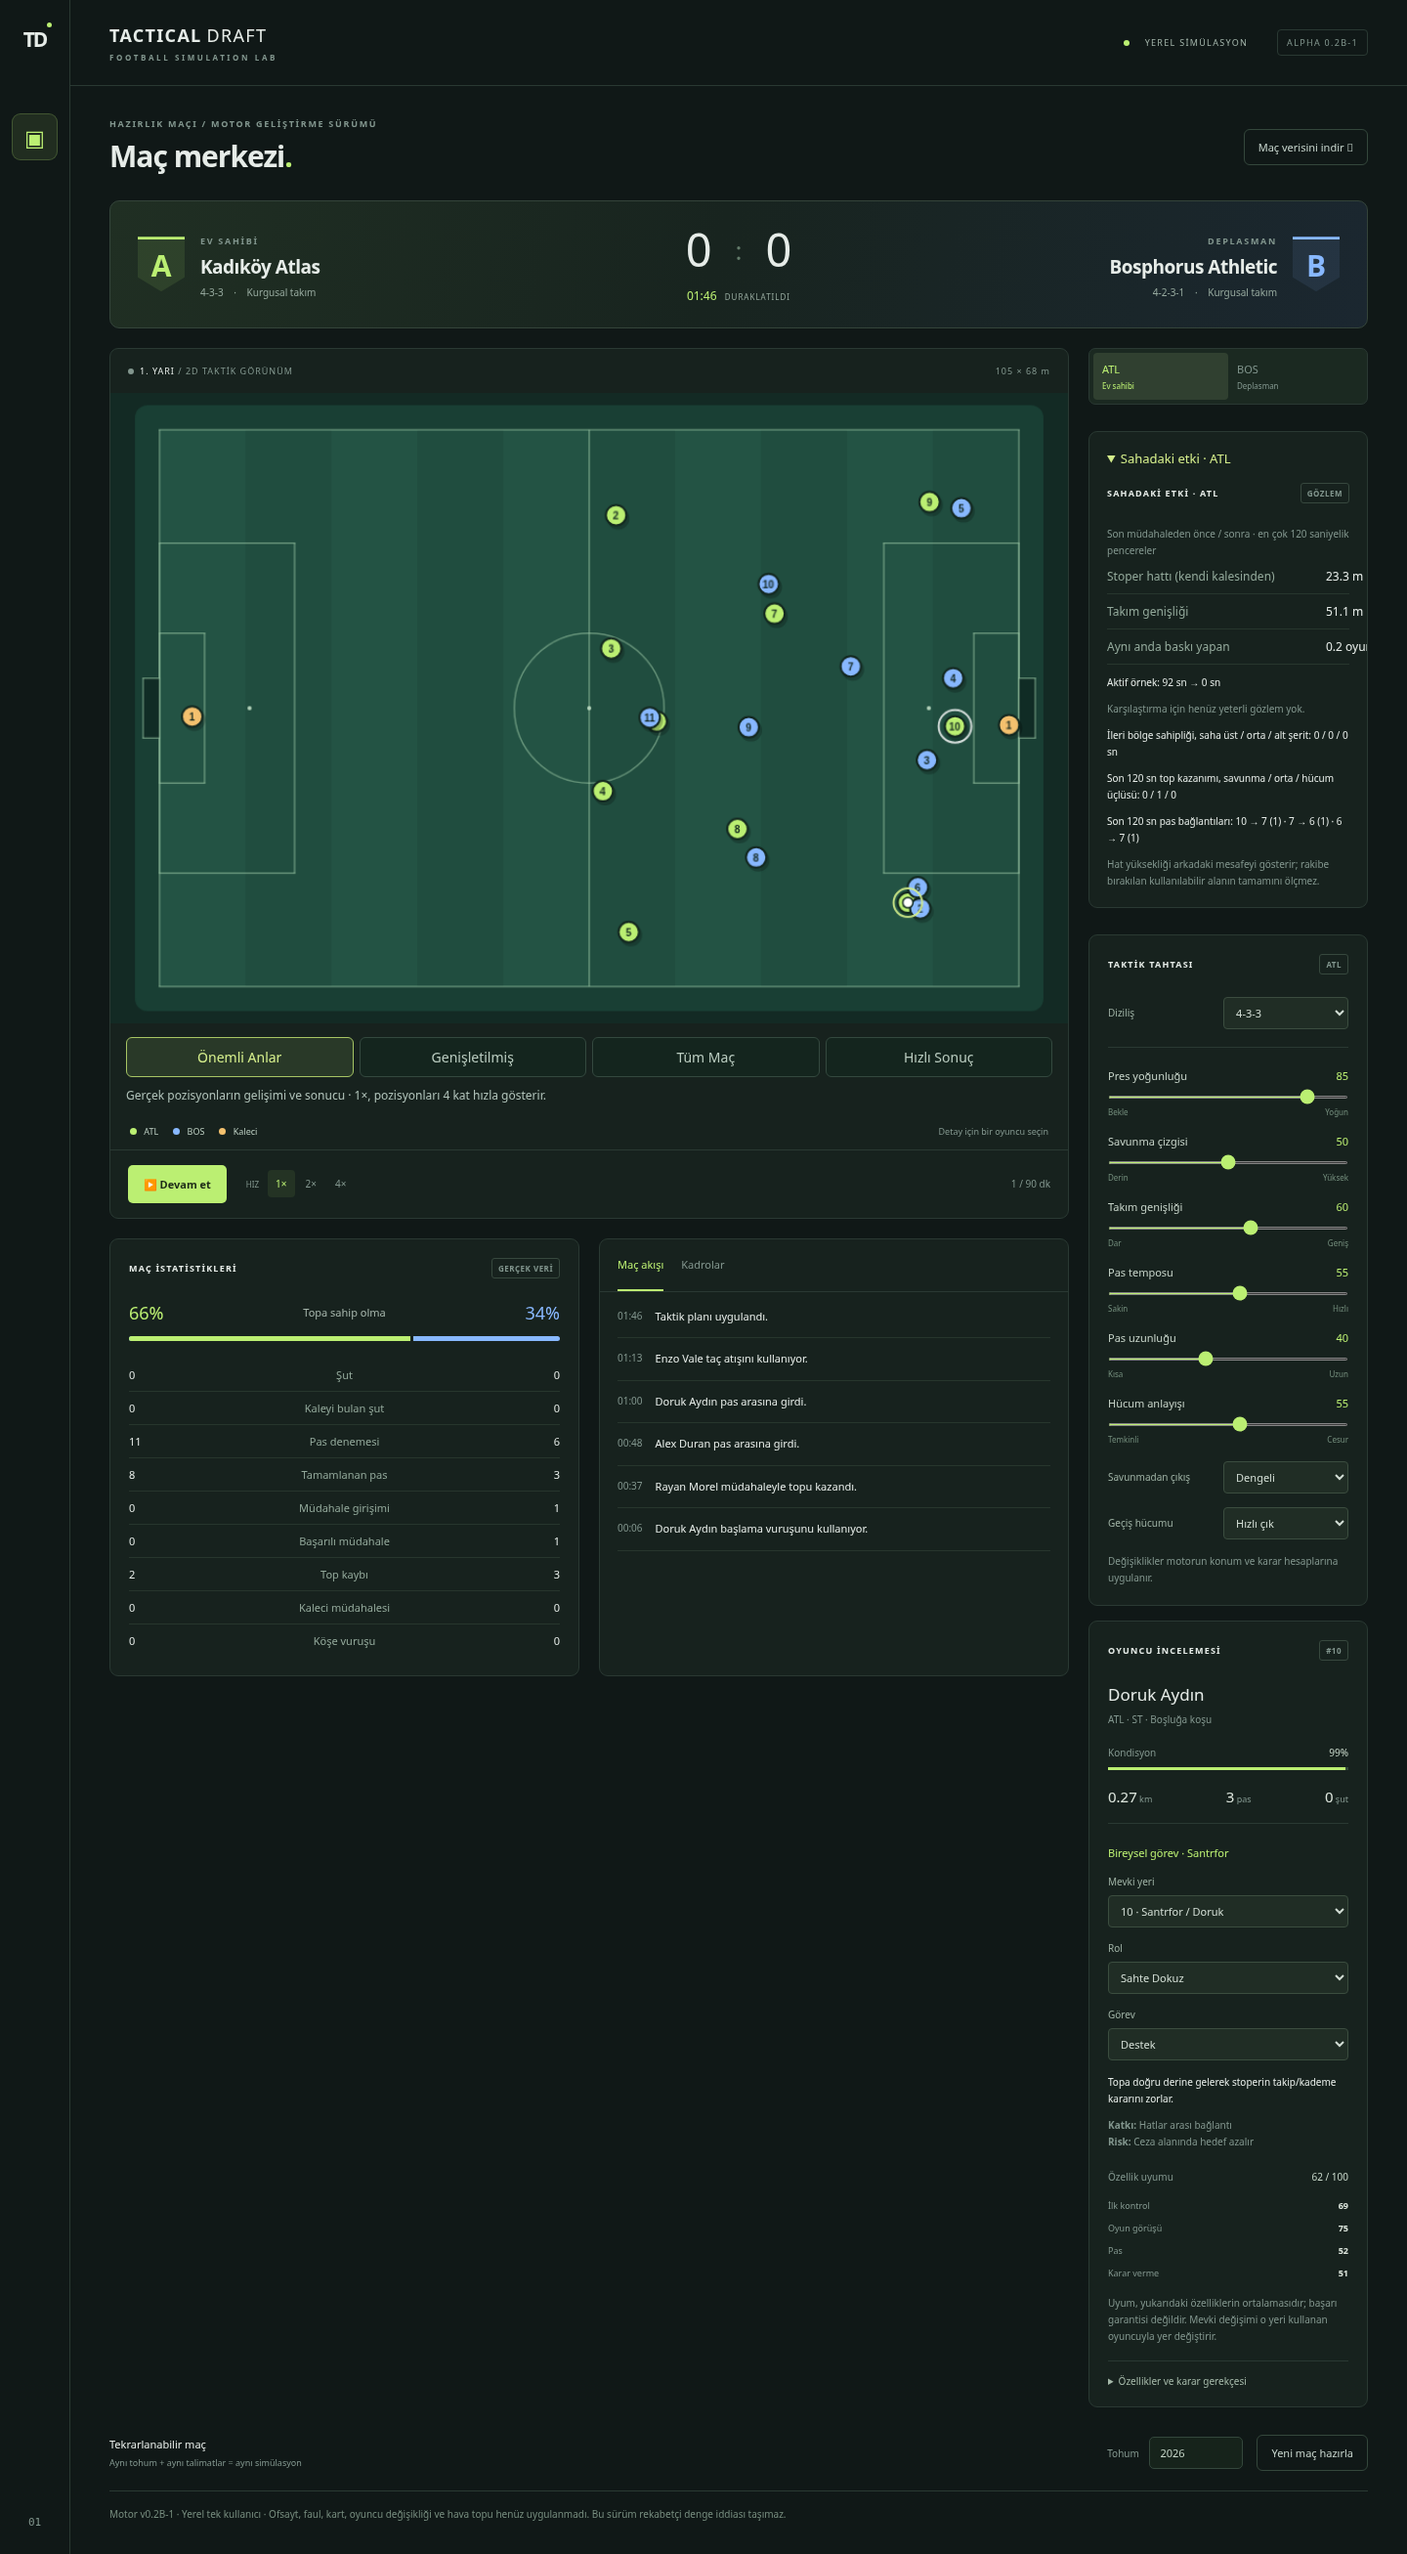
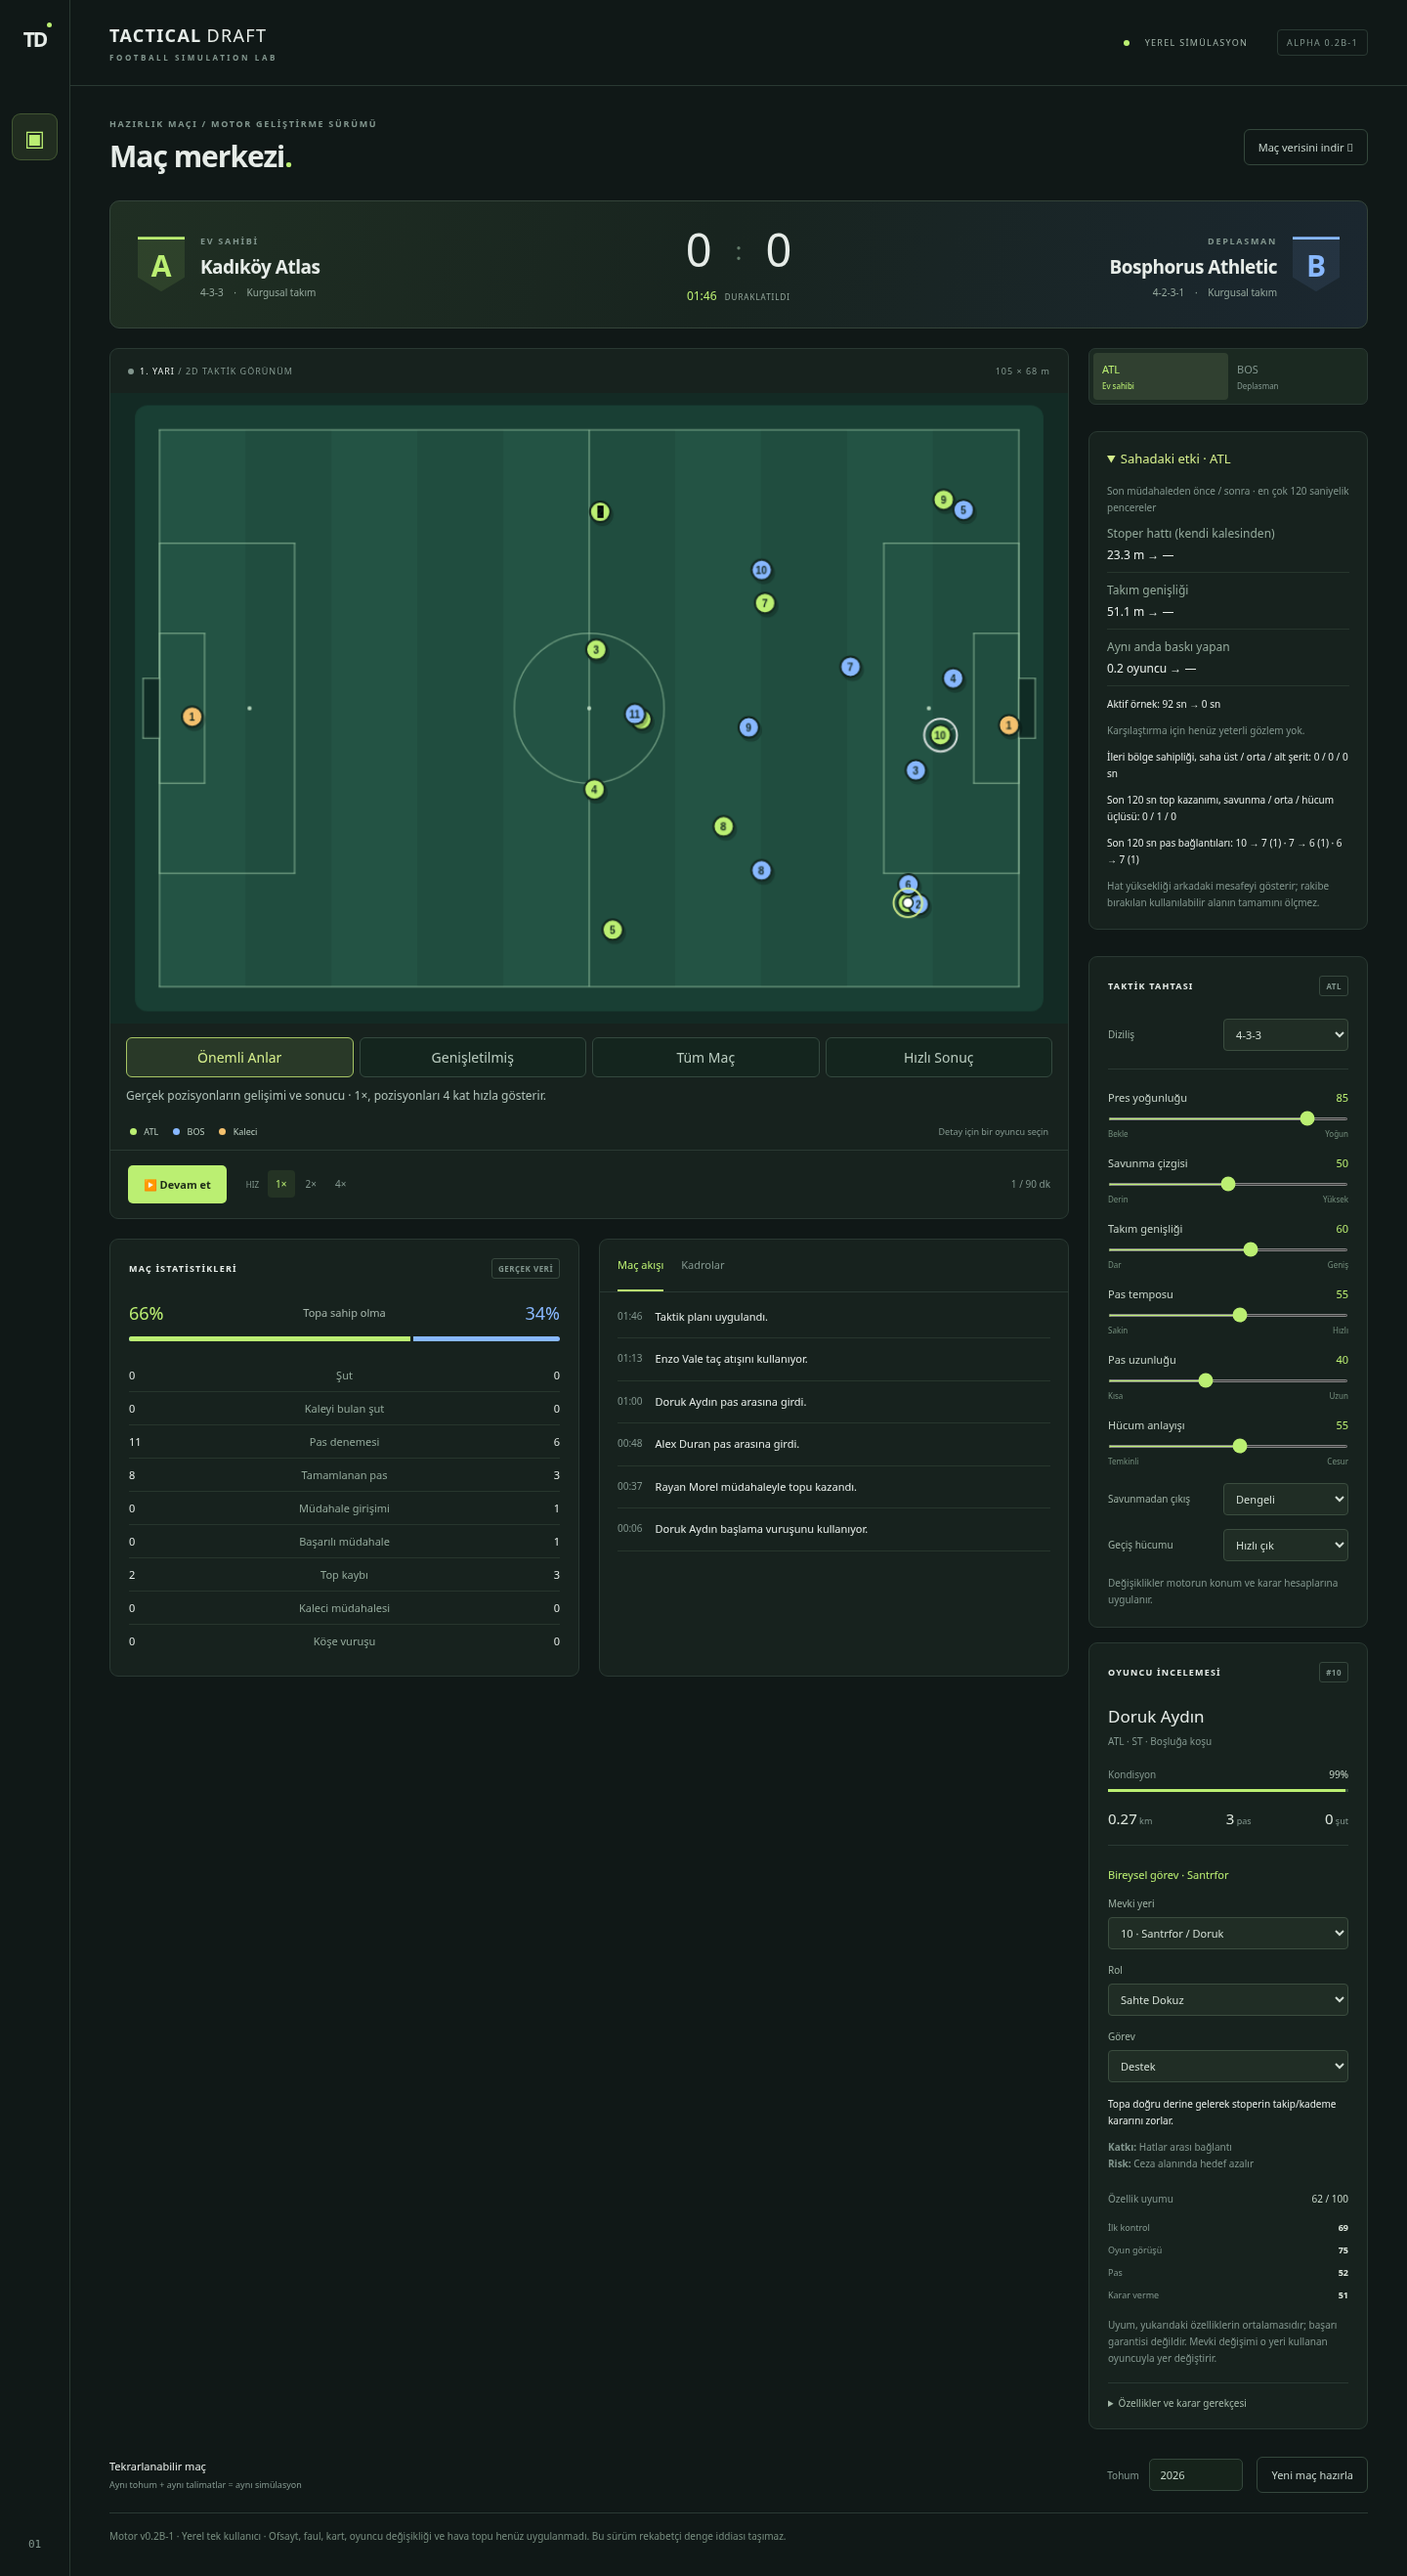
Record verified viewing modes, browser screenshots and follow-up status

diff --git a/docs/stage-2b-1/REPORT.md b/docs/stage-2b-1/REPORT.md
@@ -37,7 +37,17 @@ Son 120 saniyedeki müdahale/pas arası top kazanımları saha üçlülerine, ta
 
 ## Doğrulama durumu
 
-Son test ve tarayıcı sonuçları teslim kontrolünde buraya eklenecektir. Önceki 64 motor testi korunur; mevcut tarayıcı akışının beklentileri açık taslak uygulama ve batch kayıt biçimine uyarlanır. Motor/simülasyon adımları atlanmaz.
+- **70 testlik tam paket geçti (133.59 s), sıfır yürütücü hatası.** Önceki 64 motor testi korunur; altı yeni test checkpoint/RNG, atomik taslak, görünen ana geri dönüş, dört modda aynı tam maç ve komutlar, seçiciler ve golün gösterimde tutulmasını kapsar.
+- **Son izleme paketinde 7/7 test geçti (84.40 s), sıfır yürütücü hatası.** Ardışık mevki takası regresyonu dahil son seçici/gösterim/taslak kodu doğrulandı. Toplam kapsam 64 mevcut + 7 yeni = **71 testtir**; kayıtlı koşular 70 testlik tam paket ve son 7 testlik hedefli pakettir, tek bir 71-test koşusu iddia edilmez.
+- **Strict TypeScript + Vite üretim derlemesi geçti (13.70 s).** Prettier ve `git diff --check` temiz. Phaser paketi 1.21 MB / gzip 332 kB; mevcut paket boyutu uyarısı sürer.
+- **4 Playwright senaryosu geçti (4.3 dk toplam).** Hızlı sonuçta iki yarı, canlı rol/taktik, batch JSON, mobil 390 px, önemli anda müdahale ve tek anlatım, analiz panelinin taşmaması, mod değişimi ve varsayılan önemli-an modunda tam 90 dakika.
+- Varsayılan **Önemli Anlar, 1×, tohum 2026: 217.2 gerçek saniye (3 dk 37 sn)**. Otomatik devre arası tıklaması dahil; insanın karar verme süresi hariç. Bu ortamın Chromium ölçümüdür, tek maçtır; farklı cihaz/tohum için performans veya keyif garantisi değildir. Son maç saati 90:00; gol sayıları olaylarla, devre/maç sonu olayları tekil olarak doğrulandı.
+- İlk uzun izleme testi aynı senkron test içinde dört maç çalıştırınca Vitest `onTaskUpdate` zaman aşımı verdi. Modlar arasında event loop'a dönülerek giderildi; hatalar susturulmadı, motor adımları atlanmadı.
+- Görsel kontrolde dar panelde kesilen karşılaştırma değerleri düzeltildi ve tarayıcıda taşma kontrolü eklendi. Kontra seçicisi sahiplik zamanının **saniye** birimini kullanır. Yer değiştirme komutları birleştirilirken farklı slot takasları korunur.
+
+Gerçek tarayıcı görüntüleri: [önemli an](screenshots/highlight.png), [taktik müdahalesi ve gözlem](screenshots/intervention.png), [hızlı sonuç](screenshots/match-finished.png), [önemli anlarla 90 dakika](screenshots/key-full-time.png), [mobil](screenshots/mobile.png). Ekran görüntüleri test çalışırken uygulamadan alındı; sahneler çizilmedi.
+
+Aşama 2A'nın 128 maçlık karşılaştırması tarihsel kayıt olarak korundu, bu görevde gereksiz yere tekrar çalıştırılmadı. Bu aşamanın dört mod karşılaştırması aynı tohum ve aynı devre arası batch komutuyla yalnız skoru değil bütün oyuncu, olay, istatistik ve komut durumunu eşitlik açısından denetler. İzleme sırasında müdahale testinde komutsuz devamdan farklı hedefler ve komutlu doğrudan motora eşit sonuç ayrıca doğrulanır.
 
 ## Sınırlar
 

diff --git a/docs/PROGRESS.md b/docs/PROGRESS.md
@@ -6,9 +6,11 @@ Son güncelleme: 9 Ekim 2026. Geliştirme dalı: `feat/simulation-foundation`. B
 
 Temel commit `6090de0`. İzleme katmanı, RNG dahil checkpoint/geri dönüş, dört mod, sekiz saniyelik olay öncesi tampon, tek işlemli taktik taslağı ve ölçülmüş etki paneli uygulandı. Motorun futbol denklemleri değiştirilmedi. Mimari ve sınırlar [2B-1 raporunda](stage-2b-1/REPORT.md).
 
-Doğrulama kaydı: 70 testlik tam paket geçti (133.59 s), sıfır yürütücü hatası. Sonrasında eklenen ardışık mevki değişimi regresyonu ve mevcut taslak testi hedefli koşuda geçti. İlk üç tarayıcı testi geçti. Varsayılan önemli-an modunda bütün maçı ve gerçek izleme süresini ölçen dördüncü tarayıcı kontrolü sürüyor. Son kontrol: kontra seçicisinde zaman birimi saniyedir; gol geçişi görünür anı tutar ve başlama konumuna geçişi örter. Bu son düzeltmelerin izleme testleri ve üretim derlemesi tekrar doğrulanacak.
+Uygulama commit'i `0c0ad64`; doğrulama ve güncel görüntüler takip commit'inde. **70 testlik tam paket geçti (133.59 s)**; son kaynak üzerinde **7/7 izleme testi geçti (84.40 s)**. Toplam kapsam 64 mevcut + 7 yeni = 71 test; tek koşuda 71 iddiası yok. Dört Playwright senaryosu, strict TypeScript/Vite üretim derlemesi, Prettier ve diff kontrolü geçti. Varsayılan Önemli Anlar/1×/2026 tohumunda tam maç **217.2 gerçek saniye** sürdü; devre arası ve maç sonu korundu. Ekran görüntüleri `docs/stage-2b-1/screenshots/` altında.
 
-Kalan teslim işleri: `/tmp/2b-browser-final.log` sonucunu al; `tests/viewing.test.ts` son koşusunu ve derlemeyi tamamla; güncel ekran görüntülerini rapora ekle; bu kaydı sonuçlarla güncelle; geliştirme dalını gönderip taslak PR #1'i güncelle. Eski 128 maçlık Aşama 2A kalibrasyonunu yeniden çalıştırma: bu aşama denklemleri değiştirmiyor.
+Bu aşamanın geliştirme ve doğrulaması tamamlandı. Test sırasında düzeltilenler: Vitest'e modlar arasında kontrol vererek RPC zaman aşımını kaldırma; karşılaştırma değerlerinin dar panelde kesilmesi; kontra seçicisinde saniye/tick ayrımı; art arda mevki takaslarının korunması; sekans sınırında gol gösteriminin tutulması. Fizik/karar denklemleri değiştirilmedi ve eski 128 maçlık kalibrasyon gereksiz yere tekrarlanmadı.
+
+Sonraki oturumda yeni izleme katmanını yeniden yazma. Açık 2B-1 işleri: düşük güçlü cihazlarda Web Worker/performance değerlendirmesi, farklı tohumlarda seyir süresi ve kullanıcı geri bildirimi, daha gelişmiş alan kontrolü ölçümü. Önemli-an eşikleri sezgiseldir; 217.2 sn tek cihaz/tek maç ölçümüdür. Alttaki Aşama 2A gerçekçilik eksikleri devam ediyor. Gelişmiş draft/çok oyunculuya geçiş bu görev kapsamında değildir.
 
 ## Aşama 2A — tamamlanan temel
 

diff --git a/README.md b/README.md
@@ -61,7 +61,7 @@ Tarayıcı testi varsayılan `/usr/bin/chromium` kullanır. Başka sistemlerde `
 
 [Aşama 2A tasarım ve rol kapsamı](docs/stage-2a/DESIGN.md) · [Karşılaştırmalı doğrulama](docs/stage-2a/REPORT.md) · [Gerçek futbol referansları](docs/stage-2a/REFERENCES.md)
 
-İlk sürümün tarihsel kayıtları: [mimari](docs/ARCHITECTURE.md), [doğrulama](docs/VALIDATION.md). Bunlar v0.1 içindir; güncel davranış için Aşama 2A belgelerini kullanın.
+İlk sürümün tarihsel kayıtları: [mimari](docs/ARCHITECTURE.md), [doğrulama](docs/VALIDATION.md). Bunlar v0.1 içindir; güncel davranış için Aşama 2A ve 2B-1 belgelerini kullanın.
 
 ## Barındırma ve sonraki aşama
 
